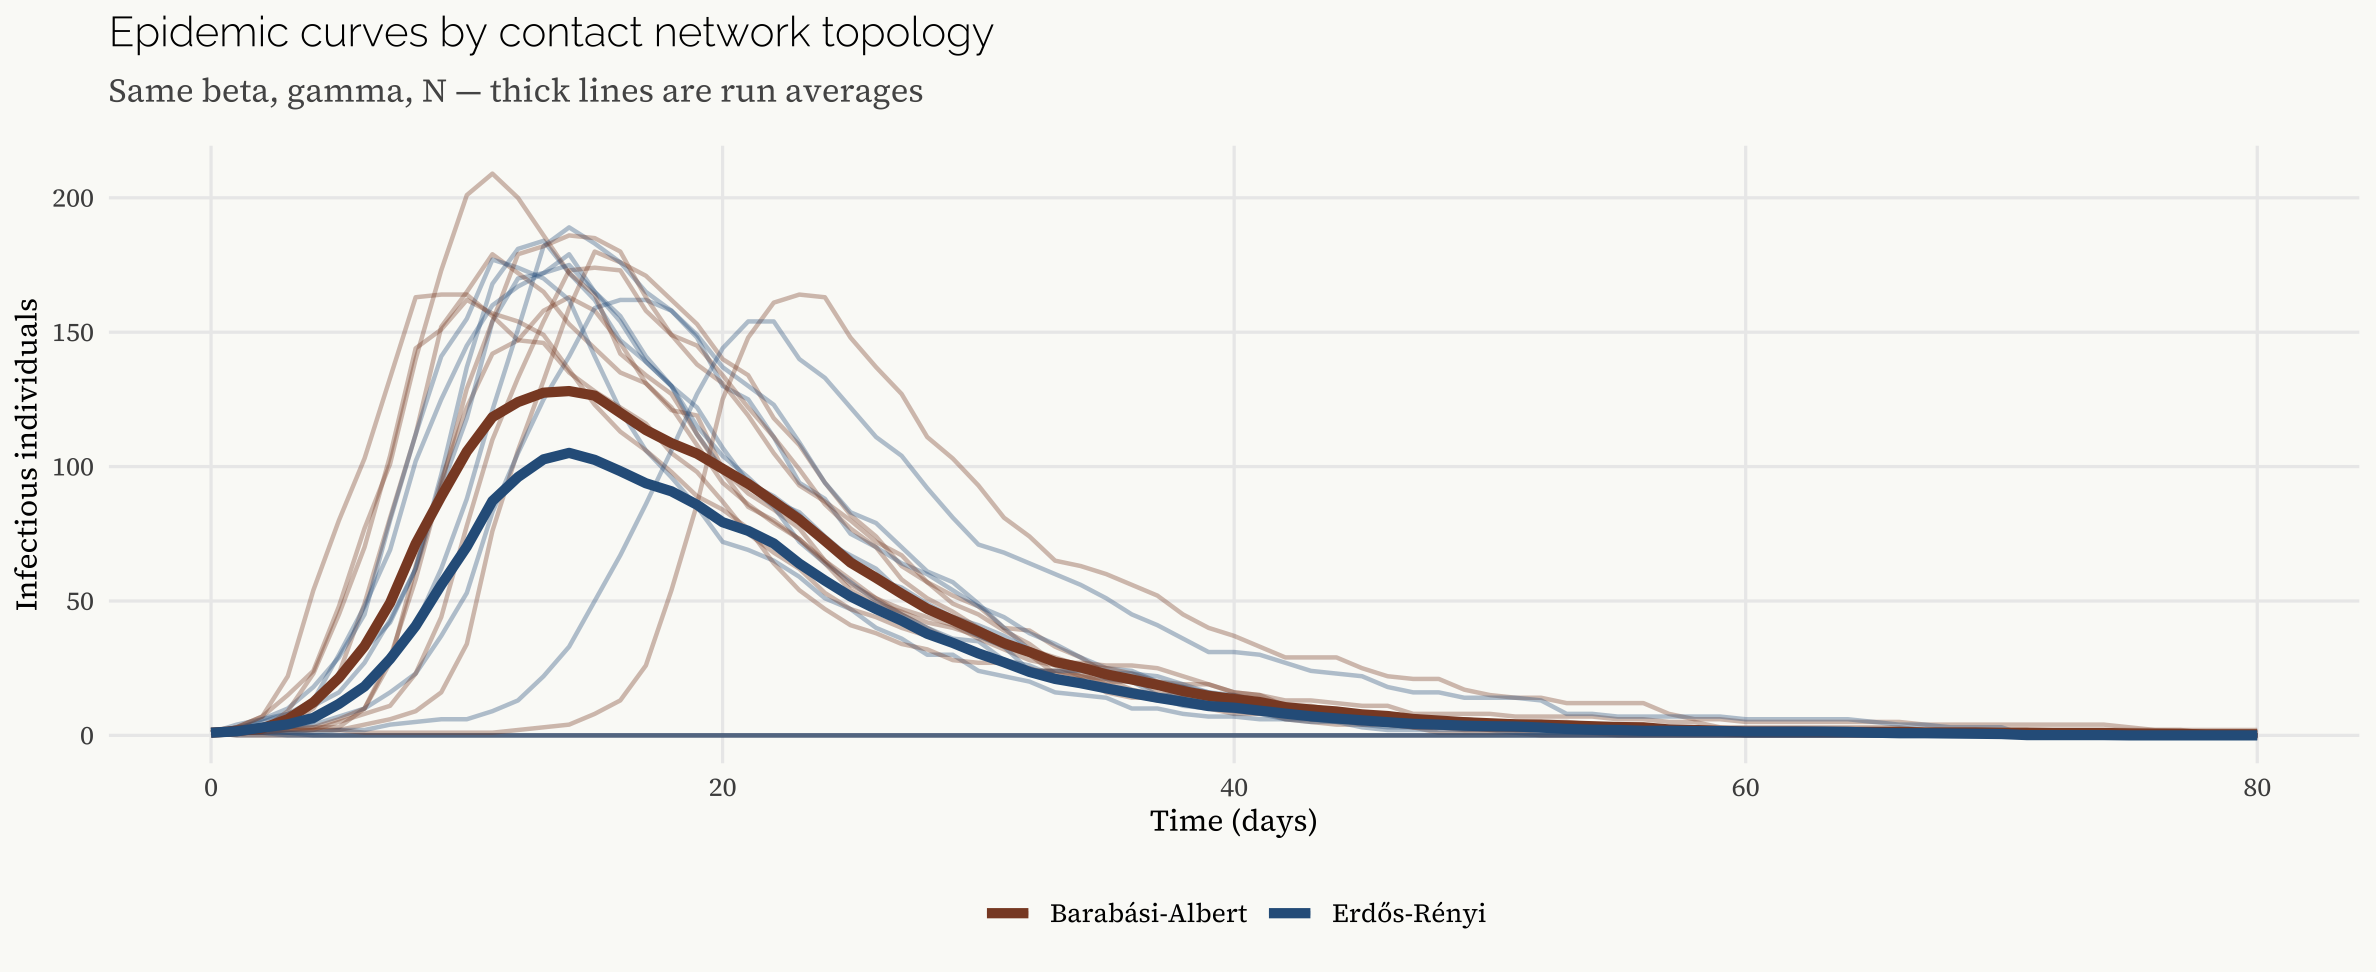
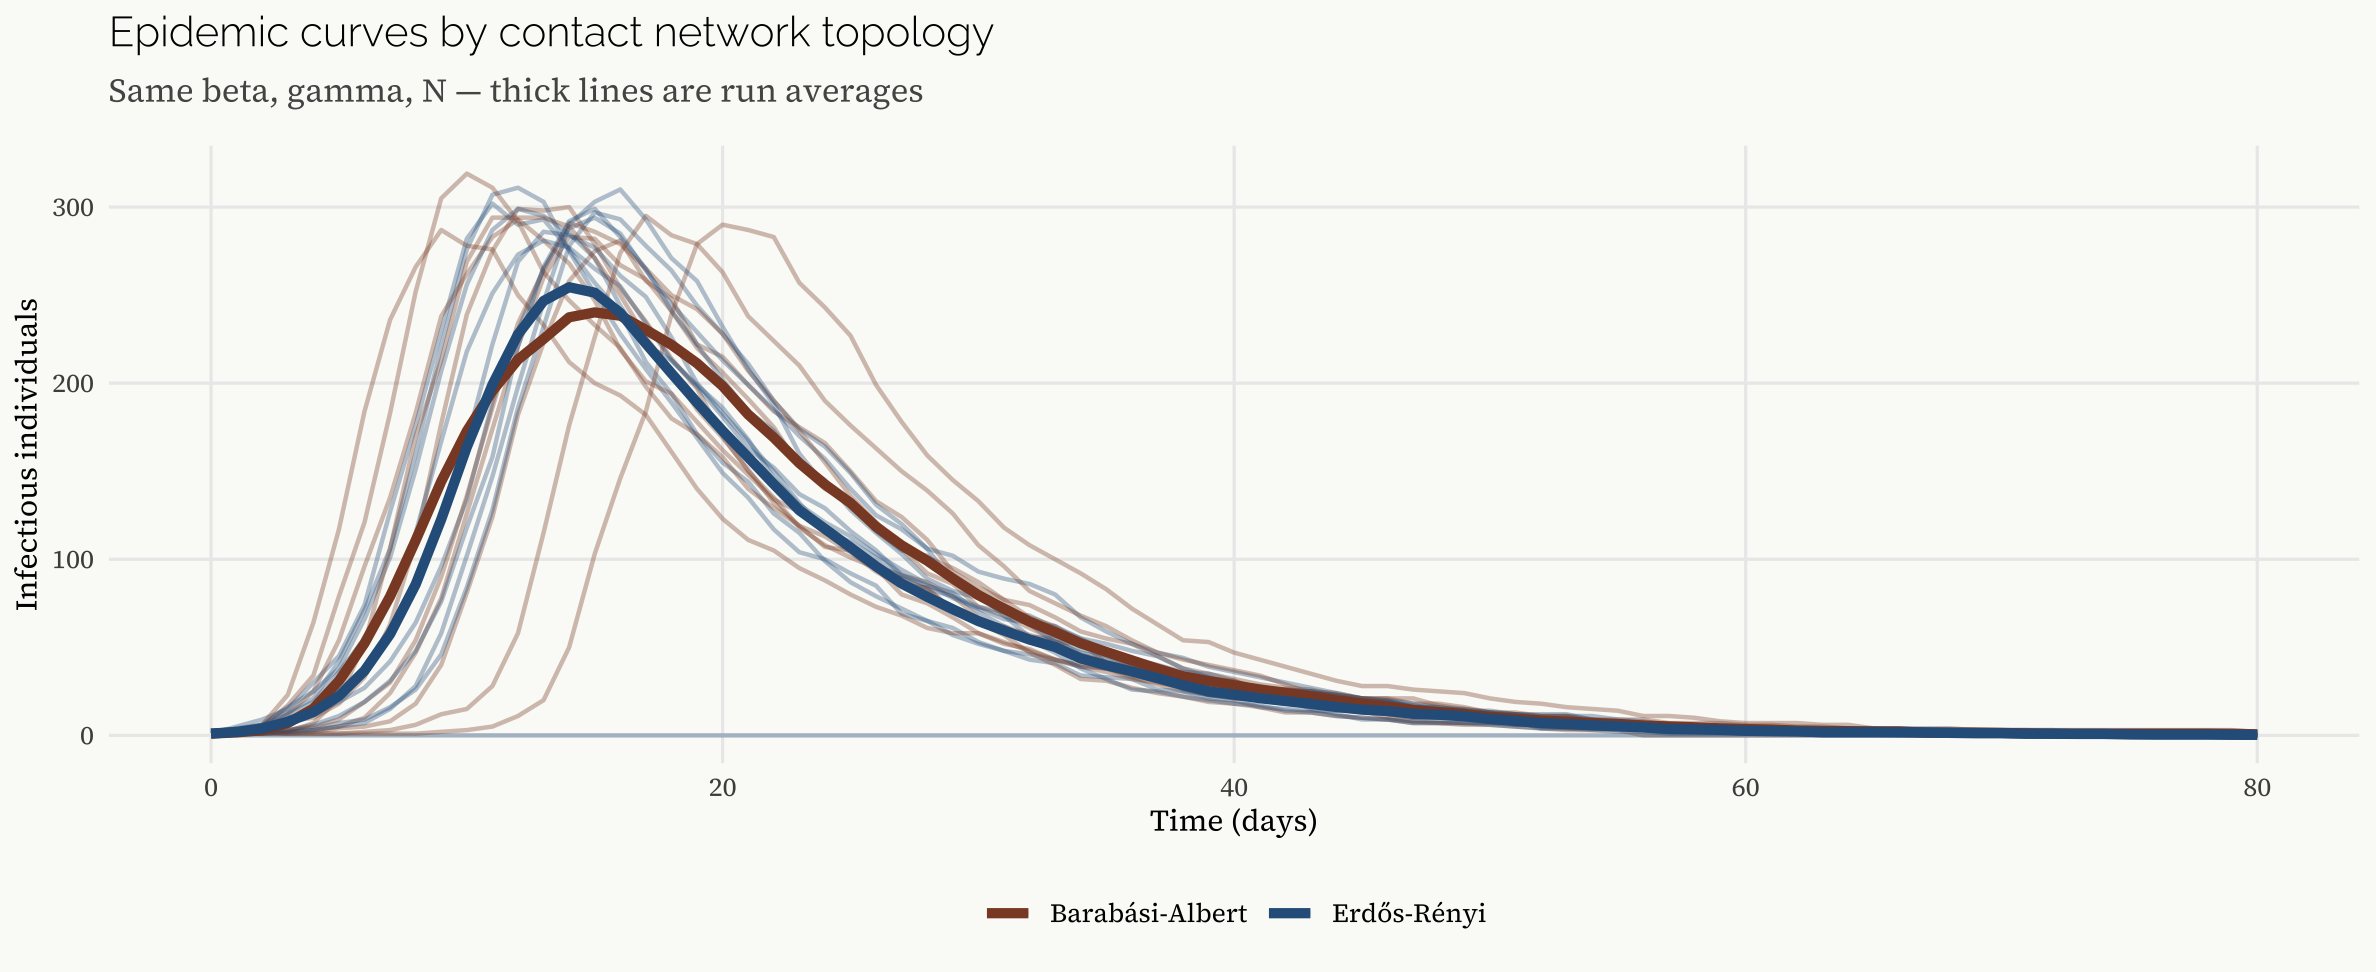
modified:   slides/02_abm_contrast.html

Changed region(s): [[0.0934, 0.1852, 0.9343, 0.7716]]

diff --git a/slides/02_abm_contrast.html b/slides/02_abm_contrast.html
@@ -136,7 +136,7 @@ Speaker notes: The rules are deliberately verbal before they are computational. 
 ``` r
 set.seed(42)
 step_lv &lt;- function(pop, p_birth = 0.15, p_kill = 0.00375,
-                    p_convert = 0.267, p_death = 0.10) {
+                    p_convert = 0.267, p_death = 0.10, max_pop = 5000L) {
   prey &lt;- filter(pop, type == "prey")
   pred &lt;- filter(pop, type == "predator")
   N &lt;- nrow(prey); P &lt;- nrow(pred)
@@ -149,6 +149,12 @@ step_lv &lt;- function(pop, p_birth = 0.15, p_kill = 0.00375,
   np    &lt;- rbinom(1, length(dead), p_convert)
   new_pred &lt;- tibble(id = max(pop$id) + nb + seq_len(np), type = "predator")
   pred  &lt;- pred[rbinom(P, 1, 1 - p_death) == 1, ]  # Rule 3: predators die
+  # Safety cap: prevent runaway prey growth in low-predation phases
+  if (nrow(prey) + nrow(new_prey) &gt; max_pop) {
+    message("max_pop cap triggered: prey capped at ", max_pop,
+            " (uncapped count would be ", nrow(prey) + nrow(new_prey), ")")
+    new_prey &lt;- slice_head(new_prey, n = max(0L, max_pop - nrow(prey)))
+  }
   bind_rows(prey, pred, new_prey, new_pred)
 }
 ```
@@ -249,7 +255,7 @@ run_abm_sir &lt;- function(N = 500, beta = 0.3, gamma = 0.1,
   }
   results
 }
-abm_sir_runs &lt;- map_dfr(1:8, ~ run_abm_sir(seed_val = .x) |&gt; mutate(run = .x))
+abm_sir_runs &lt;- map_dfr(1:10, ~ run_abm_sir(seed_val = .x) |&gt; mutate(run = .x))
 ```
 
 ???
@@ -292,7 +298,7 @@ Speaker notes: The transition here is from the ODE's abstraction (the fully mixe
 
 ``` r
 set.seed(77)  # for reproducibility
-N_net  &lt;- 300
+N_net  &lt;- 500
 k_mean &lt;- 6   # mean degree for both networks
 
 # Erdős-Rényi: random graph, Poisson degree distribution
